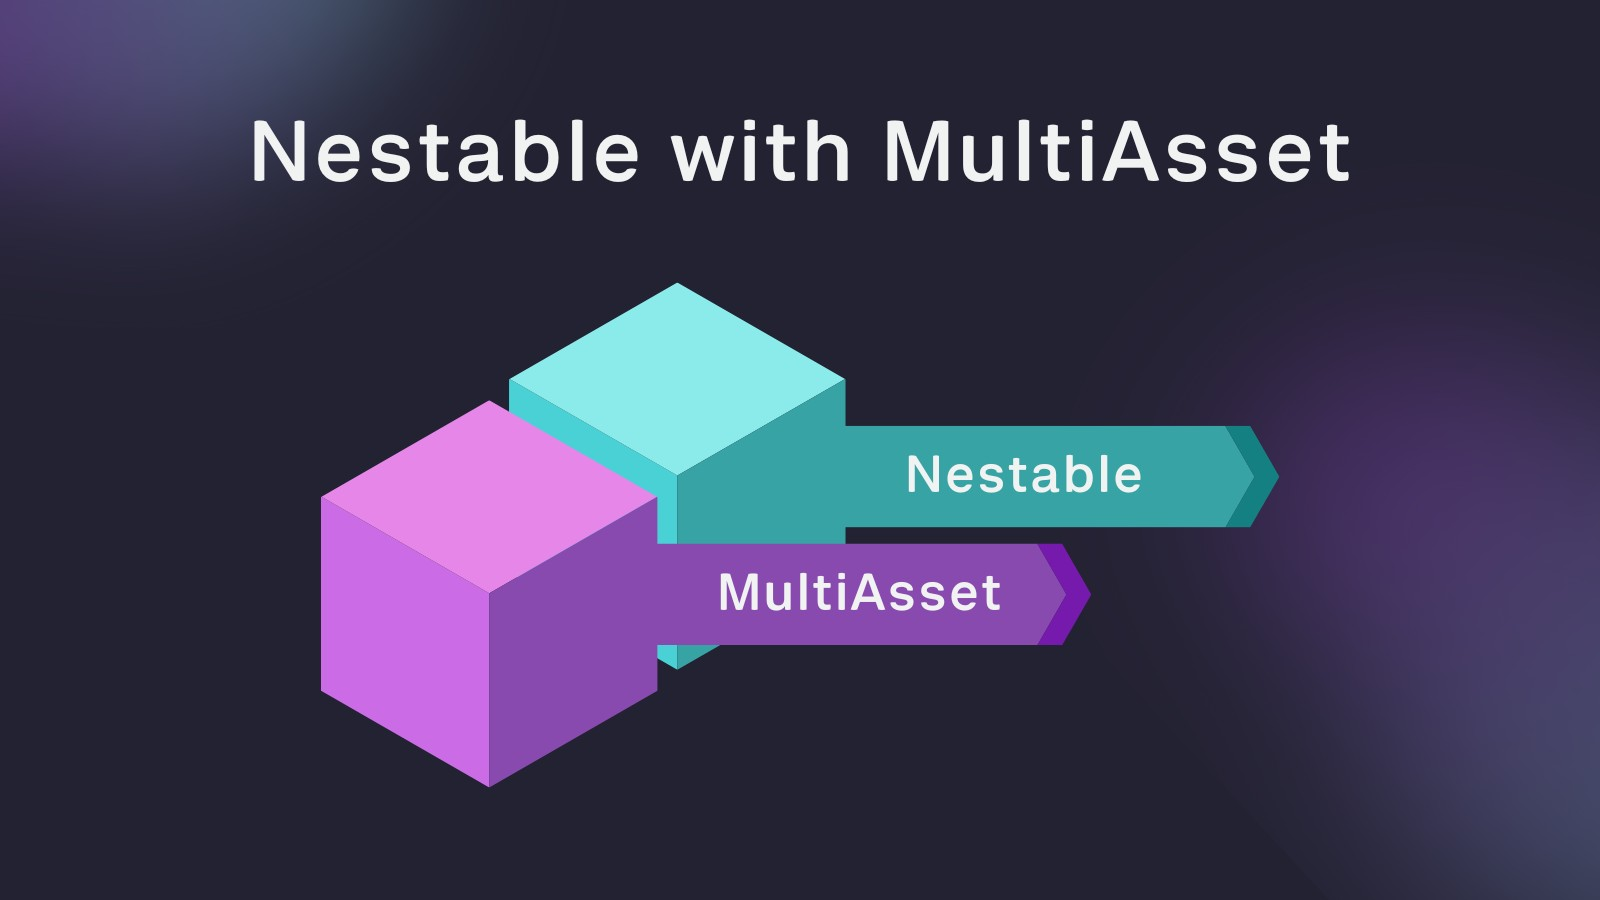
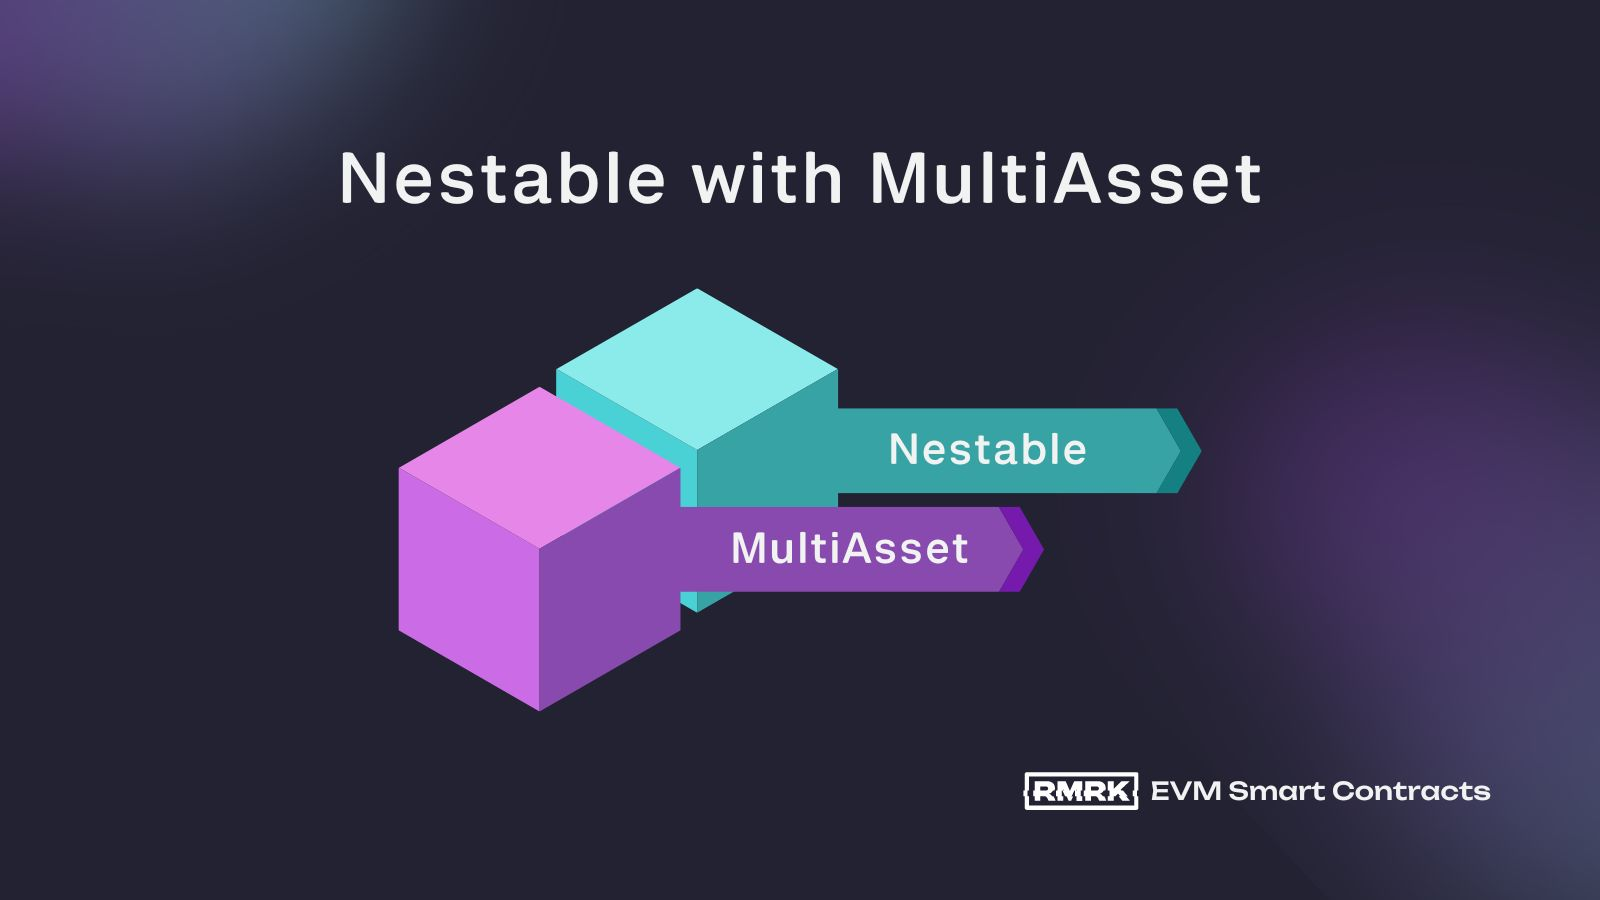
GitBook: [#18] Replace unbranded lego images with branded ones in examples

diff --git a/rmrk-legos-examples/nestable.md b/rmrk-legos-examples/nestable.md
@@ -4,7 +4,7 @@ description: RMRK Nestable lego example.
 
 # Nestable
 
-<figure><img src="../.gitbook/assets/5.jpg" alt=""><figcaption><p>Nestable RMRK lego</p></figcaption></figure>
+<figure><img src="../.gitbook/assets/5 (1).jpg" alt=""><figcaption><p>Nestable RMRK lego</p></figcaption></figure>
 
 The concept of nested NFTs refers to NFTs being able to own other NFTs.
 
